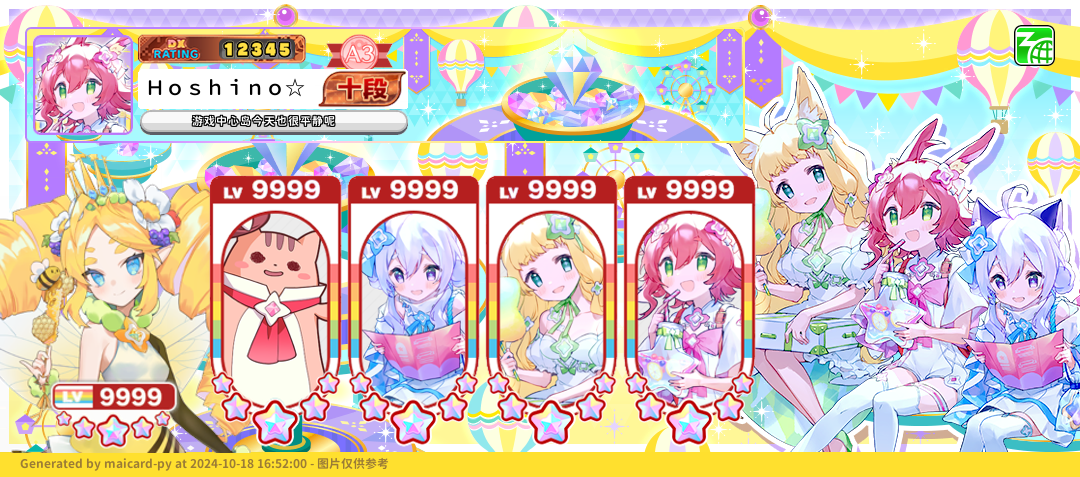
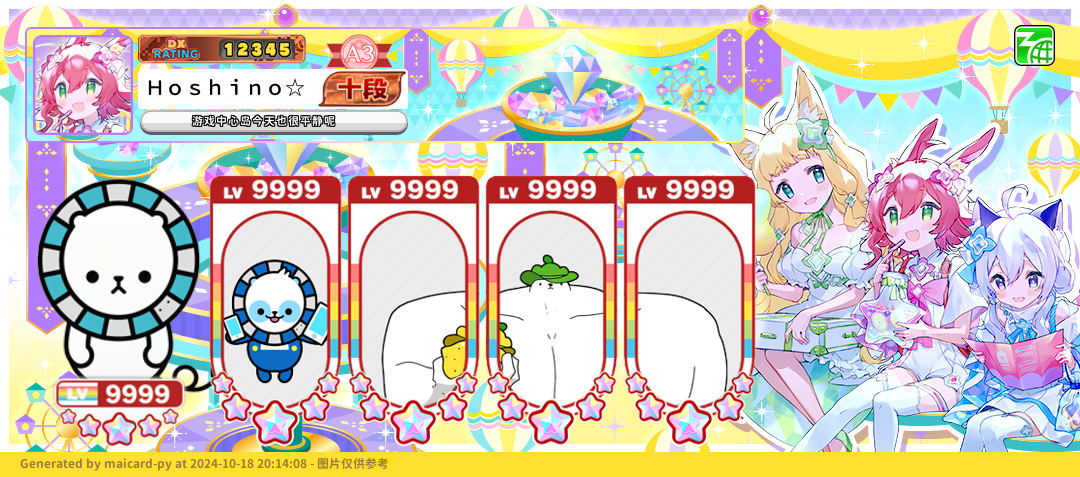
feat(generate_img): 优化角色图片生成逻辑
- 修改角色图片的尺寸和位置，以适应新的界面布局
- 调整星星和等级的位置，确保正确显示
- 更新默认旅行伙伴 ID列表
- 优化角色图片的裁剪和粘贴逻辑，提高图像处理效率

Changed region(s): [[0.0, 0.3229, 0.3056, 0.9686], [0.3361, 0.4403, 0.7028, 0.8512], [0.2444, 0.9686, 0.275, 0.9979]]

diff --git a/generate_img.py b/generate_img.py
@@ -197,9 +197,11 @@ def drawCharaImgNewSub(charaId, charaLevel):
 
     if not os.path.exists(rf"{maimaiImgPath}/Chara/UI_Chara_{charaId:06d}.png"):
         charaId = 0
-    chara_img = Image.open(rf"{maimaiImgPath}/Chara/UI_Chara_{charaId:06d}.png").convert("RGBA").resize((264, 264))
+    chara_img = Image.new("RGBA", (264, 300), (255, 255, 255, 0))
+    c = Image.open(rf"{maimaiImgPath}/Chara/UI_Chara_{charaId:06d}.png").convert("RGBA").resize((170, 170))
+    chara_img.paste(c, (0, 40), c)
 
-    chara_img = chara_img.crop((58, 0, 58 + alpha.width, alpha.height))
+    chara_img = chara_img.crop((12, -32, 12 + alpha.width, alpha.height - 32))
 
     base.paste(chara_img, (0, 0), chara_img)
     base.paste(frame, (-2, -2), frame)
@@ -250,7 +252,7 @@ def drawCharaImgNewMain(charaId, charaLevel):
         charaId = 0
     base = Image.open(rf"{maimaiImgPath}/Chara/UI_Chara_{charaId:06d}.png").convert("RGBA").resize((512, 512))
 
-    base.paste(frame, (108, 381), frame)
+    base.paste(frame, (140, 381), frame)
 
     if star >= 6:
         main_star = Image.open(rf"{maimaiImgPath}/maicard/UI_CMN_Chara_star_big_MAX.png").convert("RGBA").resize((65, 61))
@@ -260,19 +262,20 @@ def drawCharaImgNewMain(charaId, charaLevel):
         sub_star = Image.open(rf"{maimaiImgPath}/maicard/UI_CMN_Chara_Star_Small.png").convert("RGBA").resize((45, 45))
 
     if star >= 1:
-        base.paste(main_star, (193, 443), main_star)
+        base.paste(main_star, (225, 443), main_star)
     if star >= 2:
-        base.paste(sub_star, (153, 446), sub_star)
+        base.paste(sub_star, (185, 446), sub_star)
     if star >= 3:
-        base.paste(sub_star, (253, 446), sub_star)
+        base.paste(sub_star, (285, 446), sub_star)
     if star >= 4:
         sub_star = sub_star.resize((30, 30))
-        base.paste(sub_star, (126, 438), sub_star)
+        base.paste(sub_star, (158, 438), sub_star)
     if star >= 5:
-        base.paste(sub_star, (295, 438), sub_star)
+        base.paste(sub_star, (327, 438), sub_star)
 
-    base.paste(level_img, (138, 405), level_img)
-    num_x = 197
+
+    base.paste(level_img, (170, 405), level_img)
+    num_x = 229
     for num in str(charaLevel):
         num_img = Image.open(rf"{maimaiImgPath}/maicard/UI_CMN_Num_26p_{num}.png").convert("RGBA").resize((38, 44))
         base.paste(num_img, (num_x, 394), num_img)
@@ -358,7 +361,7 @@ def call_user_img(user_data, no_chara=False):
 
     if not no_chara:
         main_chara = drawCharaImgNewMain(user_data["chara"][0], user_data["charaLevel"][0]).resize((309, 309))
-        img.paste(main_chara, (-16, 143), main_chara)
+        img.paste(main_chara, (-36, 143), main_chara)
         chara_start_x = 204
         chara_start_y = 170
         for chara in zip(user_data["chara"][1:], user_data["charaLevel"][1:]):
@@ -428,7 +431,7 @@ def main():
     parser.add_argument("--classRank", type=int, default=7, help="玩家友人对战等级")
     parser.add_argument("--courseRank", type=int, default=10, help="玩家段位认定等级")
     parser.add_argument("--titleRare", type=str, default="Normal", help="玩家称号稀有度")
-    parser.add_argument("--chara", nargs='+', type=int, default=[350101, 350104, 350103, 350102, 350101], help="玩家设置的旅行伙伴ID列表")
+    parser.add_argument("--chara", nargs='+', type=int, default=[101, 104, 355610, 355611, 355612], help="玩家设置的旅行伙伴ID列表")
     parser.add_argument("--charaLevel", nargs='+', type=int, default=[9999, 9999, 9999, 9999, 9999], help="玩家设置的旅行伙伴等级列表")
     parser.add_argument("--output", type=str, default="./output.png", help="图片输出路径")
 
